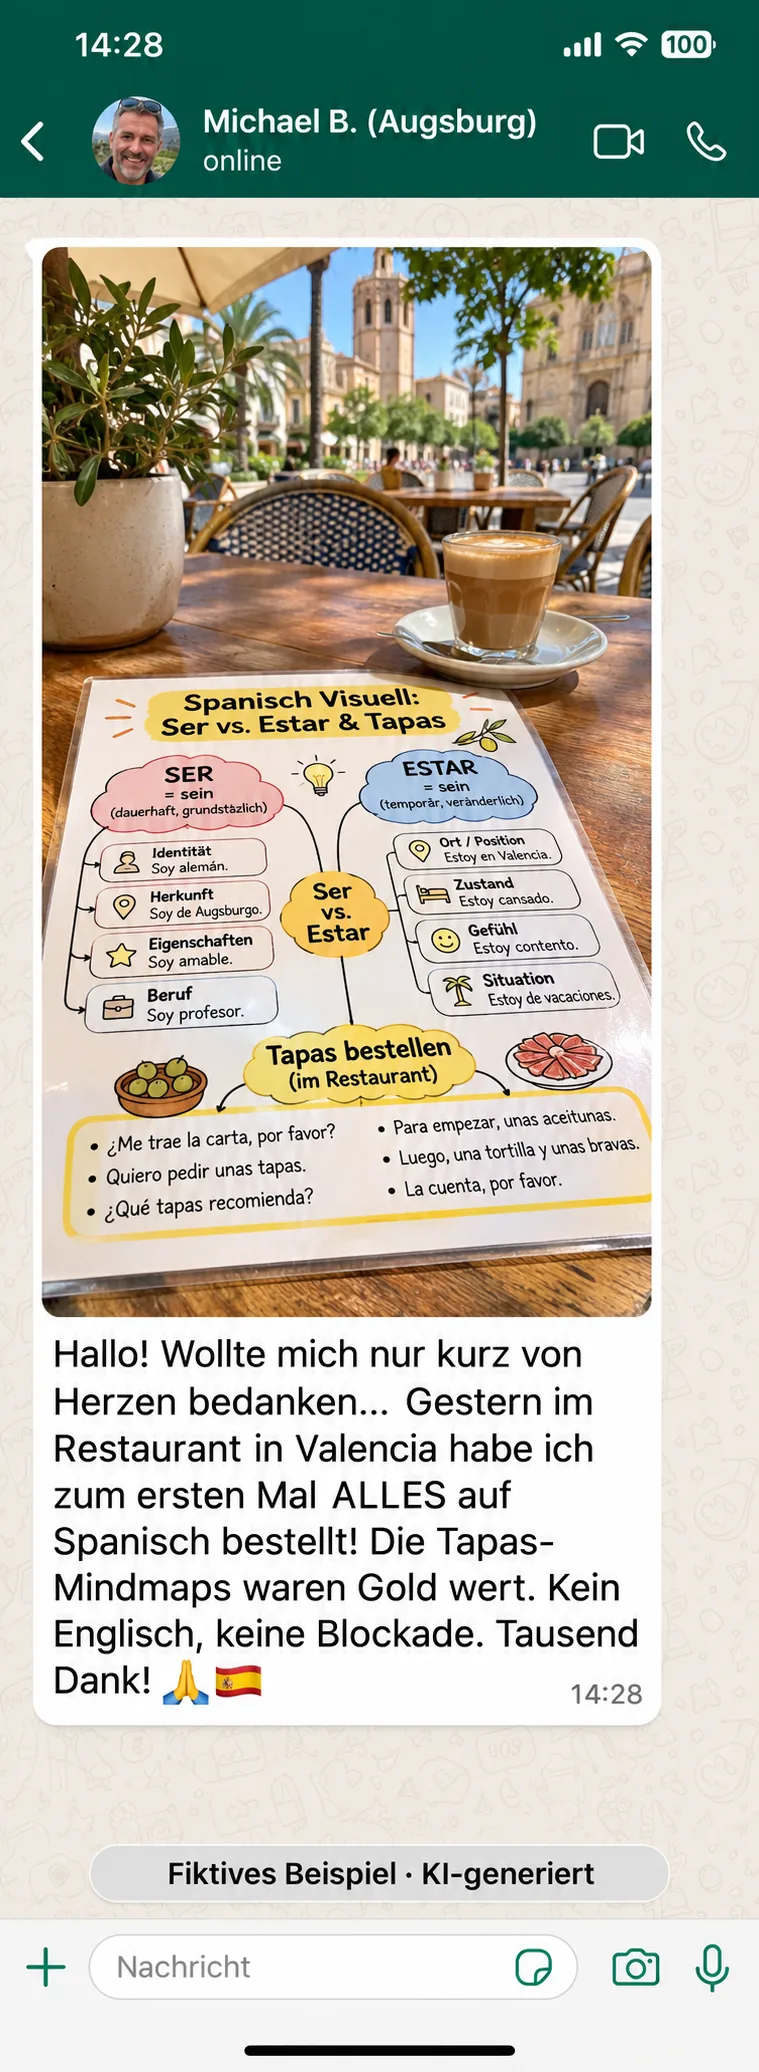
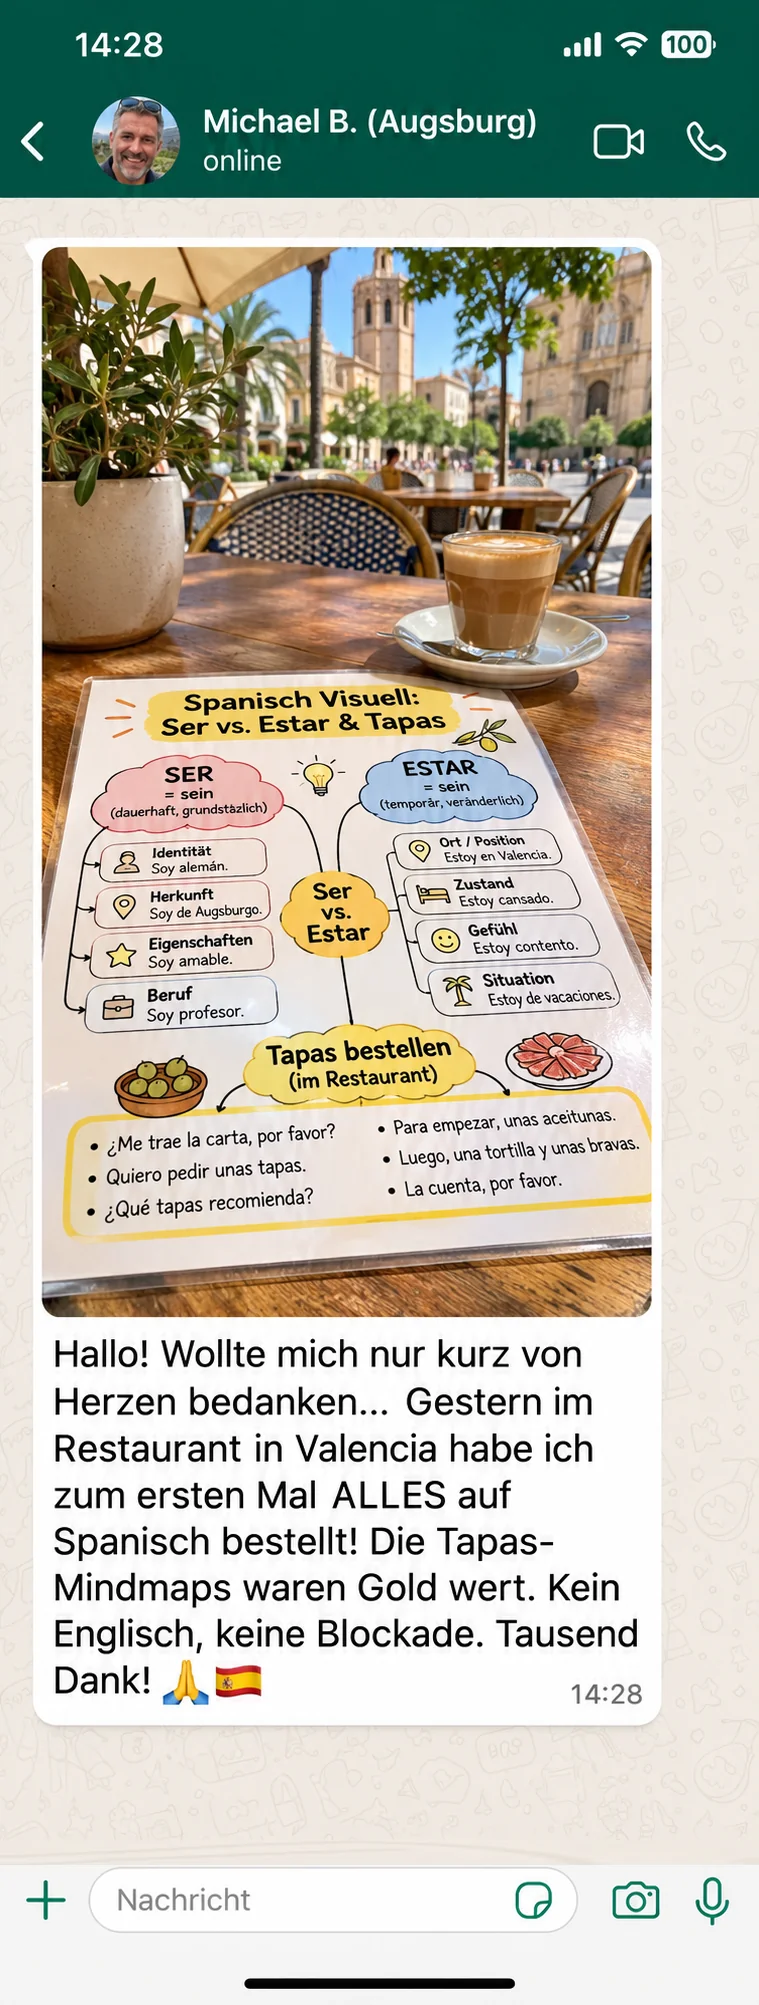
feat: update hotmart links for basic and premium, clean whatsapp capture, move 7-day guarantee inside oferta before pricing, optimize mobile modal to single view

diff --git a/index.html b/index.html
@@ -1895,6 +1895,91 @@
       }
     }
 
+  
+    /* ==========================================================================
+       MODAL ONE-SINGLE-VIEW CALIBRATION (MOBILE-FIRST NO-SCROLL)
+       ========================================================================== */
+    @media (max-width: 640px) {
+      .modal-overlay {
+        padding: 10px !important;
+        align-items: center !important;
+      }
+      .modal-card {
+        padding: 16px 14px 14px 14px !important;
+        max-height: 92vh !important;
+        border-radius: 14px !important;
+        box-shadow: 0 15px 40px rgba(0,0,0,0.4) !important;
+      }
+      .modal-close-btn {
+        top: 8px !important;
+        right: 10px !important;
+        width: 26px !important;
+        height: 26px !important;
+        font-size: 0.85rem !important;
+      }
+      .modal-badge {
+        font-size: 0.68rem !important;
+        padding: 3px 8px !important;
+        margin-bottom: 6px !important;
+      }
+      .modal-title {
+        font-size: 1.08rem !important;
+        margin-bottom: 6px !important;
+        line-height: 1.22 !important;
+      }
+      .modal-comparison {
+        display: flex !important;
+        justify-content: space-between !important;
+        align-items: center !important;
+        gap: 6px !important;
+        margin: 8px 0 !important;
+      }
+      .modal-arrow {
+        font-size: 1.1rem !important;
+        transform: none !important;
+      }
+      .modal-box {
+        padding: 6px 4px !important;
+        flex: 1 !important;
+      }
+      .modal-box.basic-box {
+        flex: 0.9 !important;
+      }
+      .modal-box.premium-box {
+        flex: 1.25 !important;
+      }
+      .box-tag, .box-tag-popular {
+        font-size: 0.62rem !important;
+      }
+      .box-price {
+        font-size: 1.25rem !important;
+        margin: 1px 0 !important;
+      }
+      .box-desc {
+        font-size: 0.68rem !important;
+        line-height: 1.15 !important;
+      }
+      .modal-text {
+        font-size: 0.74rem !important;
+        margin-bottom: 10px !important;
+        line-height: 1.25 !important;
+      }
+      .modal-card a.btn-cta {
+        padding: 11px 14px !important;
+        font-size: 0.88rem !important;
+        border-radius: 8px !important;
+        box-shadow: 0 6px 18px rgba(22, 163, 74, 0.4) !important;
+      }
+      .modal-skip {
+        margin-top: 8px !important;
+      }
+      .modal-skip a {
+        font-size: 0.72rem !important;
+        line-height: 1.2 !important;
+        display: inline-block !important;
+      }
+    }
+
   </style>
 </head>
 <body>
@@ -2626,11 +2711,15 @@
     </div>
   </section>
 
-  <!-- ==========================================================================
-       16. SECCIÓN: 7-TAGE GELD-ZURÜCK-GARANTIE (SELLO 3D)
+  
+
+    <!-- ==========================================================================
+       17. SECCIÓN: CAJETILLA DE DOS PLANES (BASIC 14,90 € VS PREMIUM 27,00 €)
        ========================================================================== -->
-  <section class="container">
-    <div class="guarantee-box">
+  <section id="oferta" class="container" style="padding-top: 40px; padding-bottom: 60px;">
+
+    <!-- 16. SECCIÓN: 7-TAGE GELD-ZURÜCK-GARANTIE (SELLO 3D) - VOR DEM ANGEBOT -->
+    <div class="guarantee-box" style="margin-bottom: 35px;">
       <img src="assets/sello-garantia-7-tage.webp" alt="7 Tage Geld zurück Garantie Siegel 3D" class="guarantee-seal-img" loading="lazy">
       <div class="guarantee-text">
         <h3>Unsere 100% risikofreie 7-Tage-Garantie</h3>
@@ -2642,12 +2731,7 @@
         </p>
       </div>
     </div>
-  </section>
 
-    <!-- ==========================================================================
-       17. SECCIÓN: CAJETILLA DE DOS PLANES (BASIC 14,90 € VS PREMIUM 27,00 €)
-       ========================================================================== -->
-  <section id="oferta" class="container" style="padding-top: 40px; padding-bottom: 60px;">
     <div class="text-center" style="margin-bottom: 30px;">
       <span class="hero-badge">WÄHLEN SIE IHREN ZUGANG</span>
       <h2 class="section-title">Starten Sie noch heute mit Spanisch Visuell</h2>
@@ -2719,7 +2803,7 @@
         </ul>
 
         <!-- Botón Verde Directo a Hotmart -->
-        <a href="https://pay.hotmart.com/?checkoutMode=10" class="btn-cta btn-plan-premium" target="_self" data-utmify-checkout="true">
+        <a href="https://pay.hotmart.com/A108285386W?off=kr13u2nq&checkoutMode=10" class="btn-cta btn-plan-premium" target="_self" data-utmify-checkout="true">
           JETZT ZUM SONDERPREIS SICHERN (27,00 €) →
         </a>
 
@@ -3071,13 +3155,13 @@
       </p>
 
       <!-- Botón Upgrade a Premium -->
-      <a href="https://pay.hotmart.com/?checkoutMode=10" class="btn-cta" target="_self" data-utmify-checkout="true" style="display: block; width: 100%; text-align: center; padding: 18px 24px; font-size: 1.05rem;">
+      <a href="https://pay.hotmart.com/A108285386W?off=kr13u2nq&checkoutMode=10" class="btn-cta" style="display: block; width: 100%; text-align: center; padding: 18px 24px; font-size: 1.05rem;">
         JA! ICH WILL DAS KOMPLETTPAKET FÜR NUR 27,00 € →
       </a>
 
       <!-- Enlace Continuar con Basic -->
       <div class="modal-skip">
-        <a href="https://pay.hotmart.com/?checkoutMode=10&plan=basic" class="skip-link" target="_self" data-utmify-checkout="true">
+        <a href="https://pay.hotmart.com/J108319815T?off=x15gl4ii&checkoutMode=10" class="skip-link" target="_self" data-utmify-checkout="true">
           Nein danke, ich möchte nur die 75 Basis-Mindmaps für 14,90 € ohne Boni kaufen »
         </a>
       </div>
